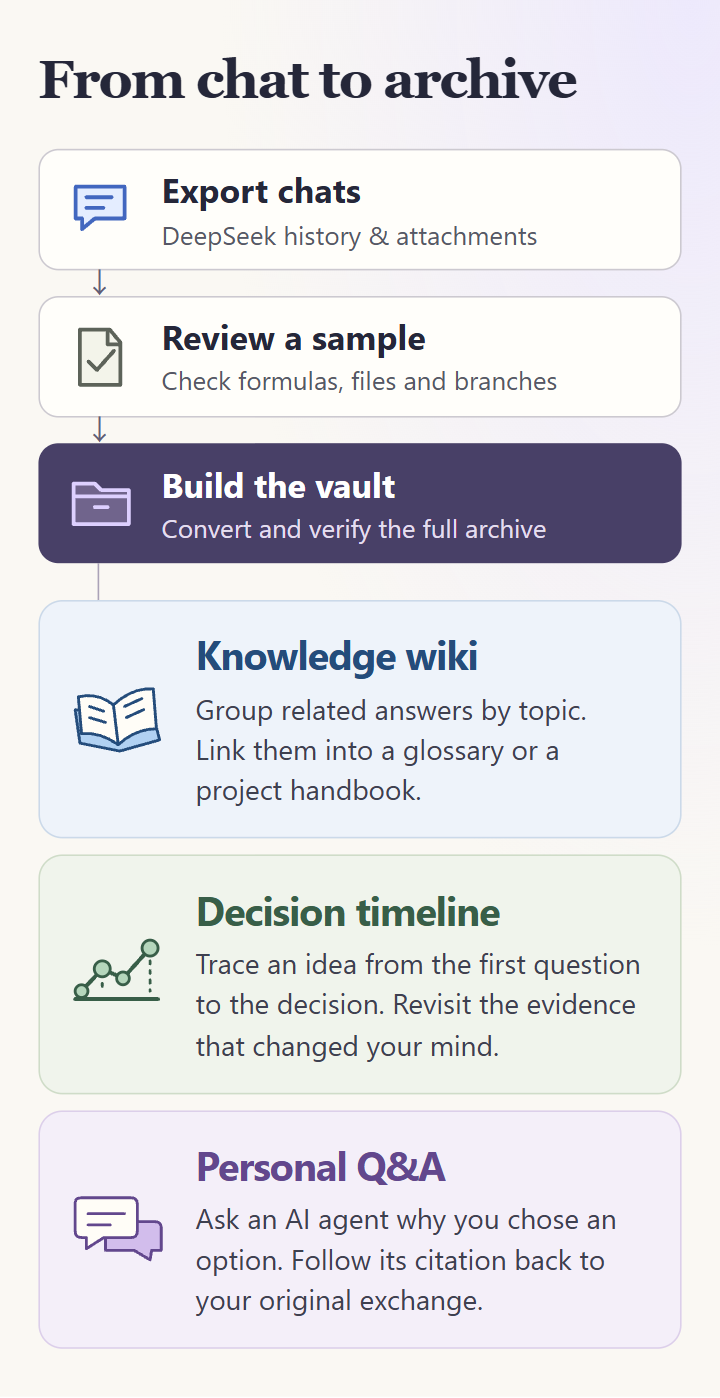
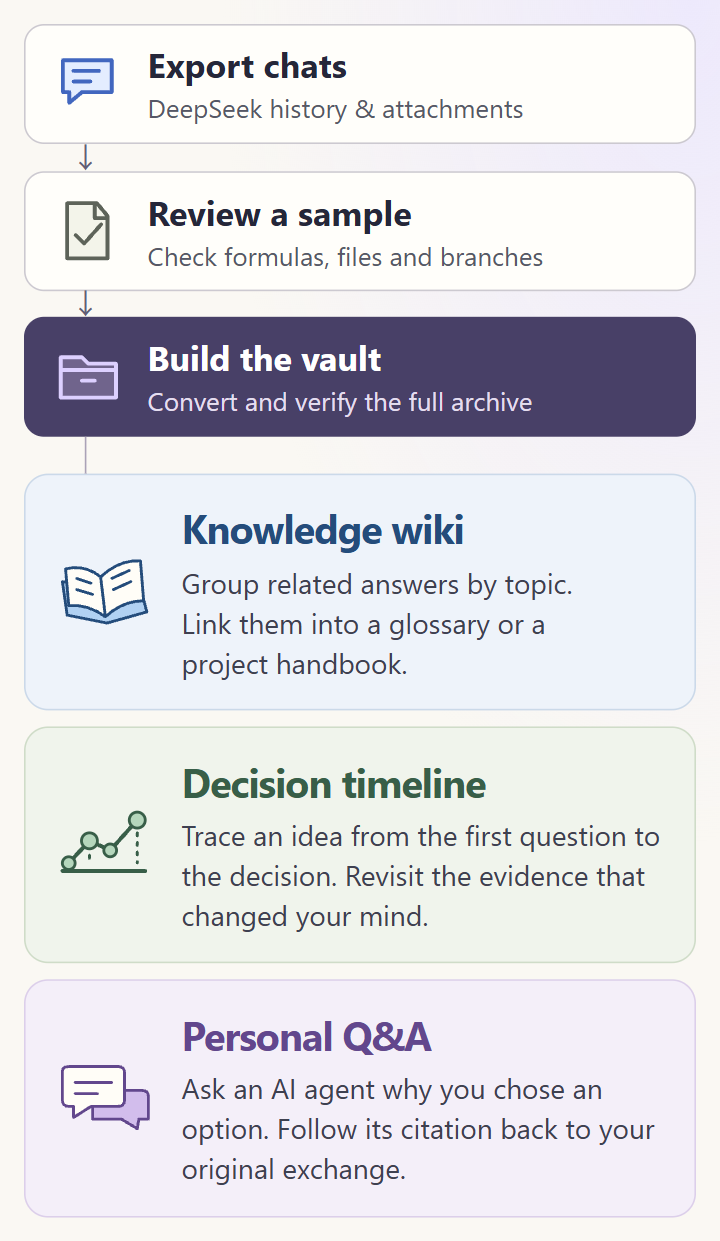
Remove diagram title and tighten all four margins

diff --git a/assets/diagrams/chat-archive.html b/assets/diagrams/chat-archive.html
@@ -7,11 +7,9 @@
 <style>
 * { box-sizing: border-box }
 body { margin: 0; color: #252739; font-family: "Segoe UI","Microsoft YaHei UI",sans-serif }
-main { max-width: 1080px; padding: 36px 42px 40px; margin: auto; background: radial-gradient(ellipse at 96% 0%,#ede9fc 0,transparent 48%),#faf8f3 }
-h1,h2,p { margin: 0 }
-h1 { font: 650 38px/1.28 Georgia,"SimSun",serif; letter-spacing: -.035em }
+main { max-width: 1080px; padding: 18px; margin: auto; background: radial-gradient(ellipse at 96% 0%,#ede9fc 0,transparent 48%),#faf8f3 }
+h2,p { margin: 0 }
 .steps,.uses { display: grid; grid-template-columns: repeat(3,minmax(0,1fr)); gap: 22px }
-.steps { margin-top: 25px }
 .step { position: relative; display: flex; gap: 13px; align-items: center; min-height: 84px; padding: 14px 17px; background: #fffefa; border: 1px solid #ccc9d0; border-radius: 10px }
 .step:not(:last-child)::after { content: "→"; position: absolute; right: -22px; width: 22px; text-align: center; font: 20px/1 Georgia; color: #635d77 }
 .step:last-child { background: #484067; border-color: #484067; color: white }
@@ -31,21 +29,20 @@ h2 { font-size: 20px; line-height: 1.25; font-weight: 650 }
 .voice { --paper:#f4eff9;--ink:#62478d;--line:#dccfea;--spot:#d2bdec }
 .use svg { width:65px;height:49px;display:block;margin-bottom:12px }
 .use h2 { font-size:24px;letter-spacing:-.03em }
-.use p { margin-top:9px; color:#3e4050; font-size:17px; line-height:1.55; text-wrap:pretty }
+.use p { margin-top:9px; color:#3e4050; font-size:17px; line-height:26px; text-wrap:pretty }
 svg { fill:none; stroke:currentColor; stroke-width:1.8; stroke-linecap:round; stroke-linejoin:round }
 .spot { fill:var(--spot) }
 .defs { display:none }
 @media(max-width:620px){
- main { padding:22px 19px 24px }
- h1 { font-size:27px }
+ main { padding:12px }
  .steps,.uses { grid-template-columns:1fr; gap:0 }
- .steps { margin-top:18px;gap:13px }
+ .steps { gap:13px }
  .step { min-height:54px; padding:9px 14px }
- .step h2 { font-size:17px }.step p{font-size:13px;margin-top:2px}
+ .step h2 { font-size:17px; line-height:21px }.step p{font-size:13px;margin-top:2px}
  .step:not(:last-child)::after { content:"↓";font-size:14px;right:auto;left:19px;bottom:-15px }
  .junction {height:18px;background:none;margin:0 0 0 30px;border-left:1px solid #aaa2b7}.junction i{display:none}
  .uses {gap:8px}.use {display:grid;grid-template-columns:51px 1fr;column-gap:13px;align-items:center;padding:14px}
- .use svg {grid-row:span 2;width:51px;height:44px;margin:0}.use h2{font-size:20px}.use p {margin-top:4px;font-size:14px;line-height:1.45}
+ .use svg {grid-row:span 2;width:51px;height:44px;margin:0}.use h2{font-size:20px}.use p {margin-top:4px;font-size:14px;line-height:20px}
 }
 </style>
 </head>
@@ -59,7 +56,6 @@ svg { fill:none; stroke:currentColor; stroke-width:1.8; stroke-linecap:round; st
 <symbol id="voice" viewBox="0 0 64 48"><path class="spot" d="M24 19h31q4 0 4 4v14h-6l-1 6-10-6H24z"/><path d="M5 7q0-3 4-3h31q4 0 4 4v17q0 4-4 4H23L12 36v-7H9q-4 0-4-4z" fill="#fffdf7"/><path d="M13 14h23m-23 7h14"/></symbol>
 </defs></svg>
 <main>
-<h1 data-en="From chat to archive">从聊天记录到对话档案</h1>
 <section class="steps">
 <div class="step"><svg><use href="#export"/></svg><div><h2 data-en="Export chats">导出对话</h2><p data-en="DeepSeek history &amp; attachments">DeepSeek 记录与附件</p></div></div>
 <div class="step"><svg><use href="#review"/></svg><div><h2 data-en="Review a sample">审核样板</h2><p data-en="Check formulas, files and branches">检查公式、附件与分支</p></div></div>
